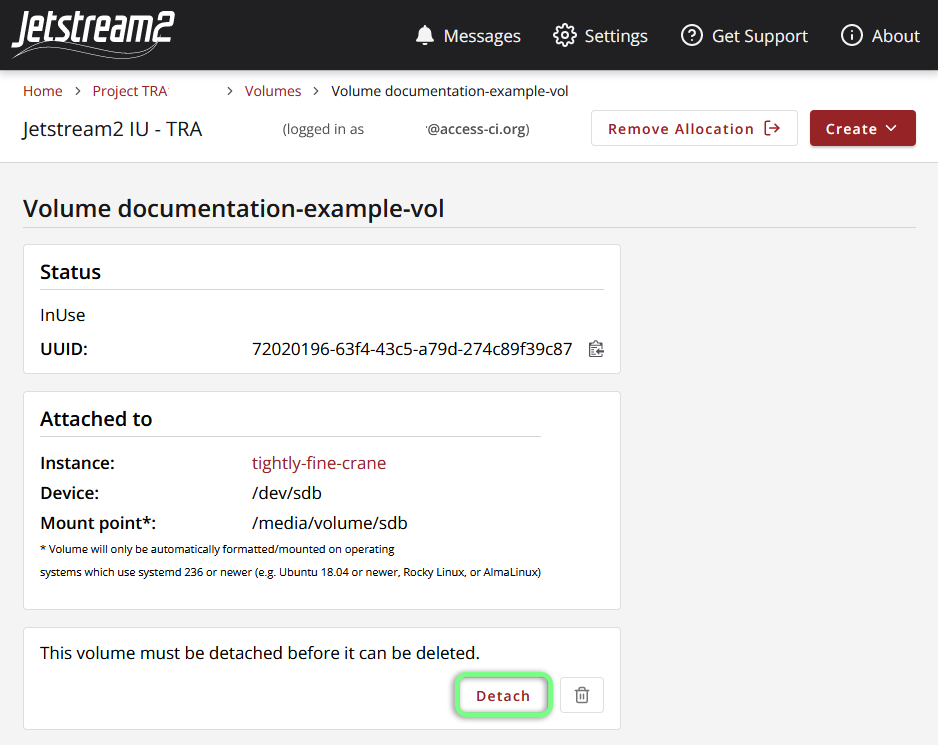
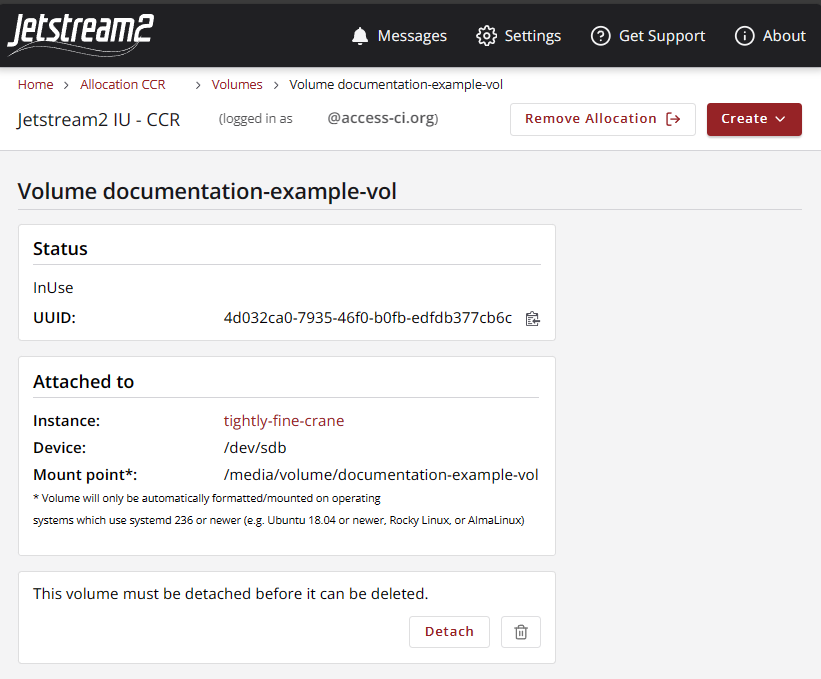
Update Exosphere volume mounting docs
With https://gitlab.com/exosphere/exosphere/-/merge_requests/892, Exosphere
 now mounts volumes to /media/volume/[volume_name] automatically. This PR
 changes the documentation to reflect that.

diff --git a/docs/ui/exo/storage.md b/docs/ui/exo/storage.md
@@ -23,11 +23,13 @@ Volumes can be attached from either the *Volumes* section of the Instance Detail
 
 ### Accessing an Attached Volume
 
-After successfully attaching a volume to an instance, Exosphere will display the device location (`/dev/sdb`, `/dev/sdc`, etc.) and the mount point (`/media/volume/...`) to which the volume is attached. This information can also be found on your Instance Details page or Volume Details page.
+After successfully attaching a volume to an instance, Exosphere will display the mount point (`/media/volume/my-volume`) to which the volume is attached. This information can also be found on your Instance Details page or Volume Details page.
 
 The mount point is the directory that represents the root of a volume's filesystem and is where you can access files stored in it.
 
-Please note that attached volumes are mounted the first time they are accessed inside the instance (e.g. with a `cd` command), and are NOT necessarily mounted at attachment time. If you encounter a seeming lag or problem with filesystem access, the volume may not be properly mounted; you may wish to try making sure you can `cd` to the directory.
+#### Note for older Instances
+
+On older Instances (created before 2/10/2024), the device location (`/dev/sdb`) will also be displayed, and the mount point will match the device location (`/media/volume/sdb`).
 
 ### Detaching a Volume
 
